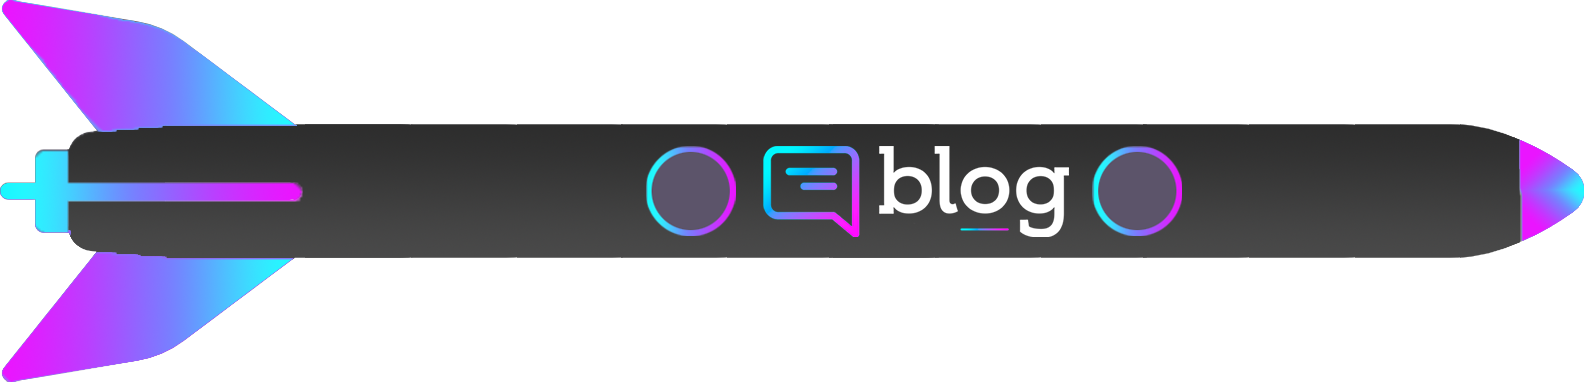
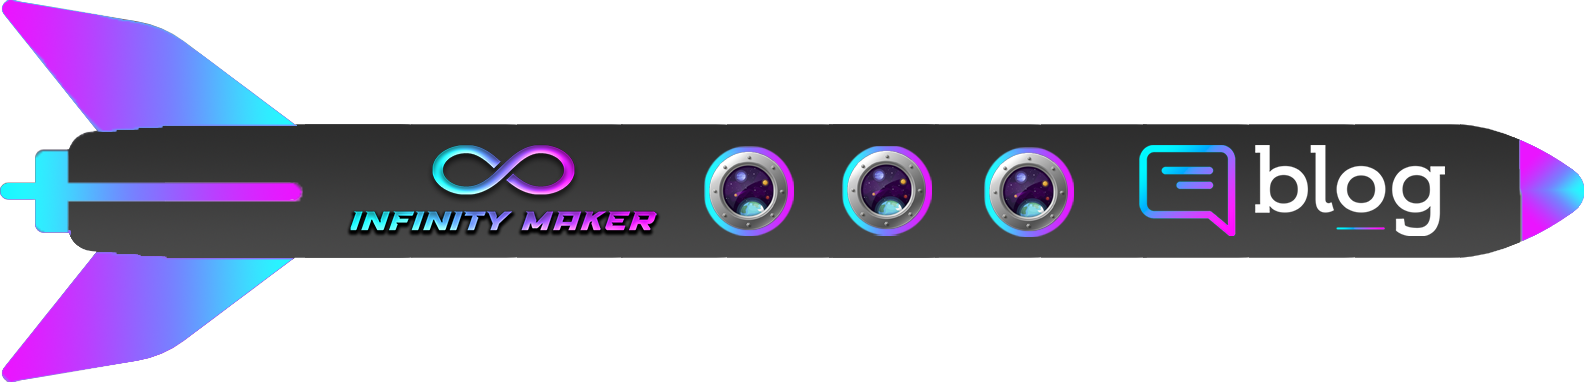
Blog V2.5

Changed region(s): [[0.2165, 0.3743, 0.928, 0.6335], [0.2475, 0.3743, 0.3712, 0.5183]]

diff --git a/index.html b/index.html
@@ -8,17 +8,13 @@
   <link rel="preconnect" href="https://fonts.gstatic.com" crossorigin>
   <link href="https://fonts.googleapis.com/css2?family=Righteous&display=swap" rel="stylesheet">
   <link href="https://fonts.googleapis.com/css2?family=Bruno+Ace&display=swap" rel="stylesheet">
+  <link href="https://fonts.googleapis.com/css2?family=Teko&display=swap" rel="stylesheet">
   
   <link rel="icon" type="image/png" href="./assets/favicon.png" />
 
 </head>
 <body>
-  <header>
-    
-    <img src="./assets/logo.png" alt="Logo Infinity Maker" height="85" width="240">
-
-    <img src="./assets/trasparente.png" alt="Logo Infinity Maker" height="330" width="1">
-
+  <div class="cabeçario">
     <nav>
       <ul>
         <li><a href="#">Início</a></li>
@@ -26,6 +22,12 @@
         <li><a href="#">Contato</a></li>
       </ul>
     </nav>
+  </div>
+  <header>
+
+    <img src="./assets/trasparente.png" alt="Logo Infinity Maker" height="300" width="1">
+
+   
   </header>
   <main>
     <div class="grid-container">

diff --git a/styles.css b/styles.css
@@ -56,16 +56,15 @@ header {
   margin: 9px;
 
   background-image: url("./assets/fuguete.png");
-  background-position: top right;
+  background-position: top;
   background-repeat: no-repeat;
   background-size: auto 100%;
 
   color: #fff;
-  padding: 10px;
-  padding-left: 335px;
-  padding-right: 140px;
+  margin-top:25px ;
+
   display: flex;
-  justify-content: space-between;
+  
   align-items: center;
 
   animation: entering 1.0s ease-in-out;
@@ -88,8 +87,11 @@ h2 {
 nav ul {
   list-style: none;
   margin: 0;
-  padding: 0;
+  padding: 0.4%;
   display: flex;
+  justify-content: center;
+
+  background: linear-gradient(#2d2d2d,#494949);
 }
 
 nav li {
@@ -101,6 +103,8 @@ nav li:last-child {
 }
 
 nav a {
+  font-size: 150%;
+  font-family: Teko;
   color: #fff;
   text-decoration: none;
 }
